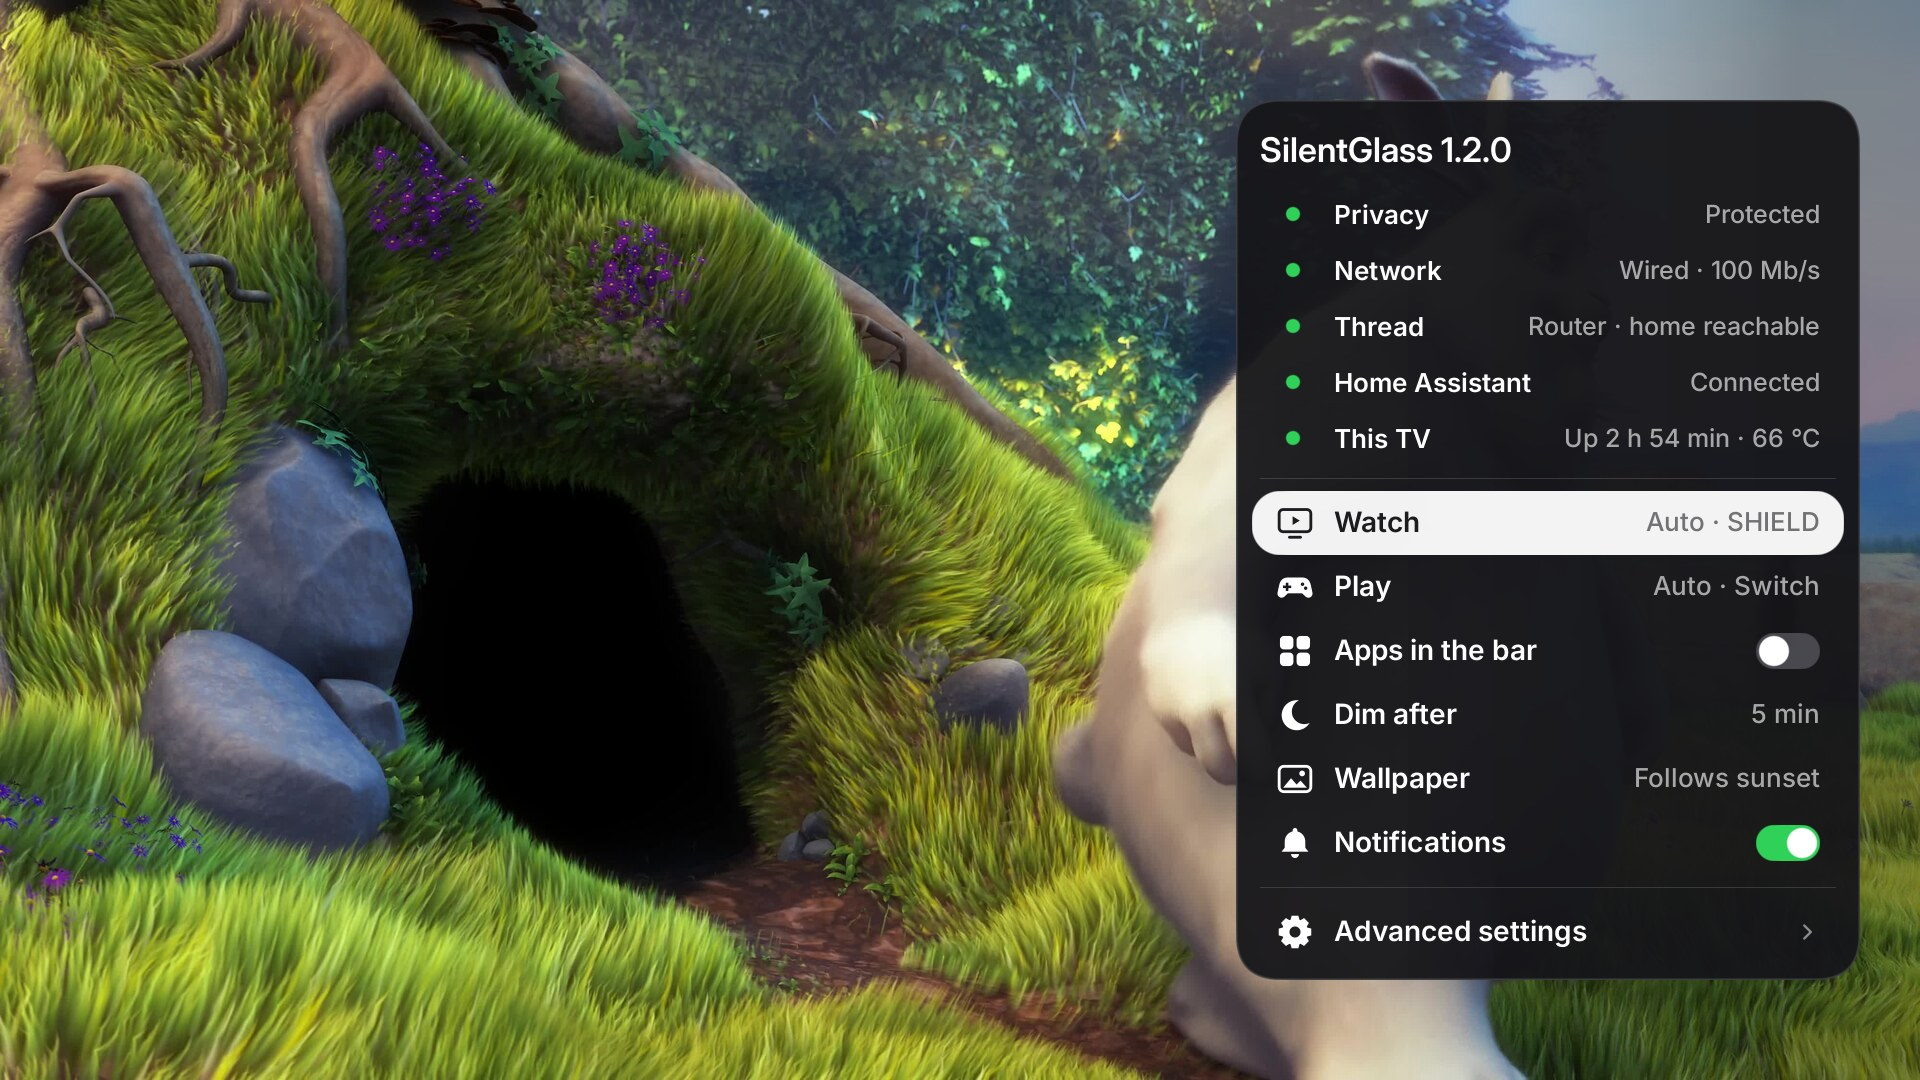
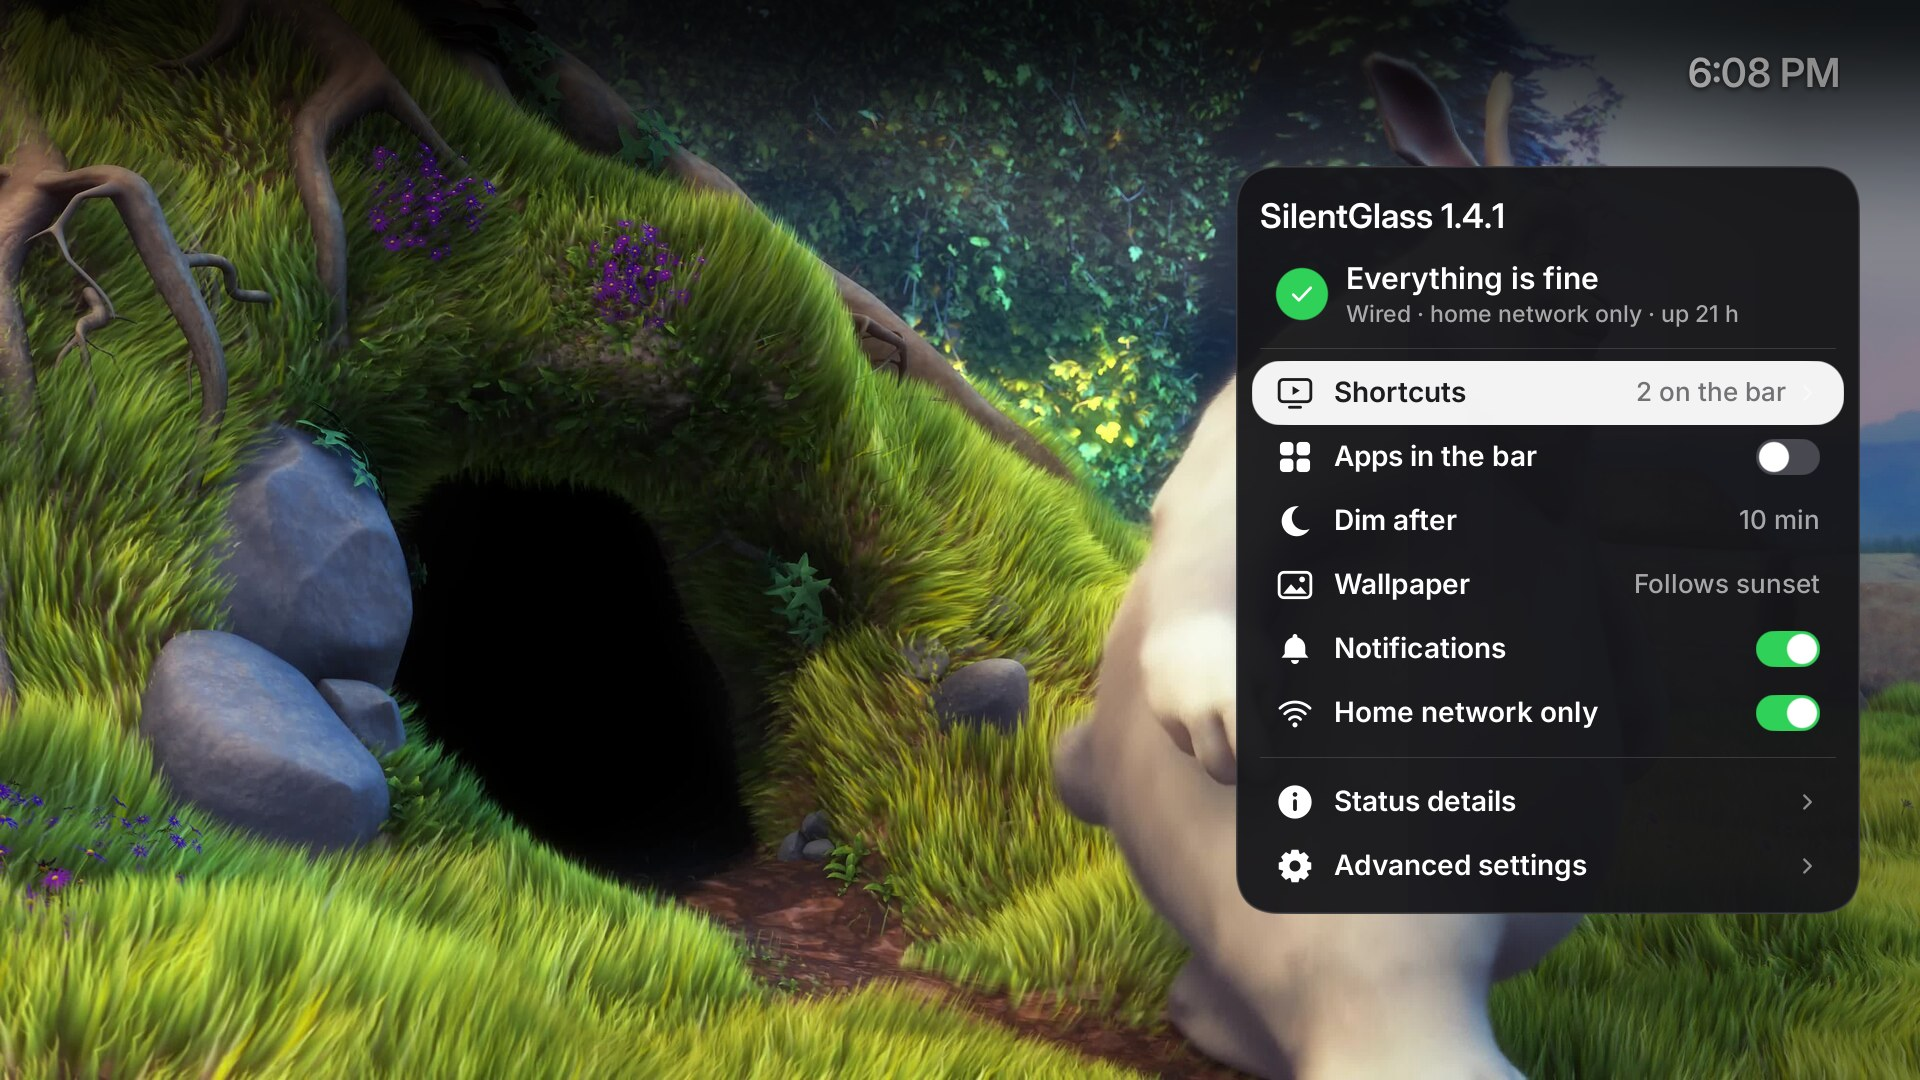
1.4.1: docs: new screenshots (bar, Controls, More, Info, phone page with shortcuts), changelog

diff --git a/devices/s90d/changelog.md b/devices/s90d/changelog.md
@@ -6,12 +6,15 @@ entries keep that name.
 Newest first. Measurements are from the tested TV (firmware in [README.md](README.md)); `bench/` holds the raw
 records of the 2026-10-25 style benchmarks. Conf keys mentioned in older entries may since have been removed - the current list is in the README.
 
-- **SilentGlass 1.4.1** (unreleased): darker shades so the clock and the bar read over bright scenes. The clock's
-  shade is a band across the whole top (darkest at the edge, fading out over 260 px) instead of a patch in the
-  corner, and the digits have a soft shadow; the bar's shade goes to 86 % black at the bottom edge (was 50 %) while
-  the middle of the picture stays about as it was. Both shades are pre-rendered images (`tools/make_shades.py`:
-  one alpha level per row, ordered dither) because the TV's gradient visual held each colour stop flat for ~27 rows
-  and the slope changes showed as stripes over the picture.
+- **SilentGlass 1.4.1** (2026-11-09): darker shades so the clock and the bar read over bright scenes.
+  - The clock's shade is a band across the whole top (84 % black at the edge, fading out over 260 px) instead of a
+    patch in the corner, and the digits have a soft shadow. The bar's shade goes to 86 % black at the bottom edge
+    (was 50 %); the middle of the picture stays about as it was.
+  - The shades are pre-rendered images (`tools/make_shades.py`: one alpha level per row, ordered dither). The TV's
+    gradient visual held each colour stop flat for ~27 rows and the slope changes showed as stripes.
+  - Controls, More and Info use the full-screen overlay like the bar (they had the right 744 px), so the clock's shade
+    runs across the top there too instead of ending in a line.
+  - Info's summary line gives the uptime in one unit ("up 21 h") so it fits.
 - **SilentGlass 1.4.0** (2026-11-09): **shortcuts** replace Watch / Play, and a visual refresh.
   - Up to four, each a name (up to 14 characters), an icon (TV, game controller, desktop, laptop, disc, HDMI) and an
     HDMI input. Hidden ones aren't on the bar. The line under a name is the TV's own name for the input; an unnamed

diff --git a/README.md b/README.md
@@ -15,7 +15,7 @@ Tested on one TV: Samsung **QN65S90D** (2024 OLED), firmware `T-PTMDAKUC-0090-RE
 - **Home as an overlay.** A glass bar fades in over whatever is playing. Up to four shortcuts (named by you, e.g.
   Watch and Play) jump straight to an input. The picture never stops.
 - **Controls without menus.** Brightness, volume, picture and sound modes, Game Mode and the sleep timer in a side
-  panel.
+  panel; contrast, pixel shift and the TV's own menus one level down in More.
 - **Home Assistant.** Power, inputs, volume and picture settings, plus camera and doorbell notifications over any
   input. Never wakes the TV.
 - **Thread border router.** The TV's built-in radio joins your existing Thread network and keeps running in
@@ -28,7 +28,7 @@ Tested on one TV: Samsung **QN65S90D** (2024 OLED), firmware `T-PTMDAKUC-0090-RE
 
 ![Controls over the picture](docs/screenshots/s90d-overlay-controls.jpg)
 
-<p><img src="docs/screenshots/s90d-overlay-inputs.jpg" width="49%" alt="Inputs, with a green dot on every device that is on">
+<p><img src="docs/screenshots/s90d-info.jpg" width="49%" alt="Info: one status line, shortcuts and settings">
 <img src="docs/screenshots/s90d-notice.jpg" width="49%" alt="A doorbell notification over the picture"></p>
 
 ![Advanced settings on a phone](docs/screenshots/s90d-phone-settings.jpg)

diff --git a/devices/s90d/README.md b/devices/s90d/README.md
@@ -30,7 +30,7 @@ Everything is an overlay over the TV's own viewer, so the picture keeps playing 
 | **Wallpaper** | shown only when there's no picture, with a clock; dims after 5 min for the OLED |
 | **Banners** | Home Assistant notifications and input alerts, in their own window, which never takes the remote |
 
-<p><img src="../../docs/screenshots/s90d-overlay-inputs.jpg" width="49%" alt="Inputs">
+<p><img src="../../docs/screenshots/s90d-overlay-more.jpg" width="49%" alt="Controls › More">
 <img src="../../docs/screenshots/s90d-info.jpg" width="49%" alt="Info"></p>
 
 ### Settings
